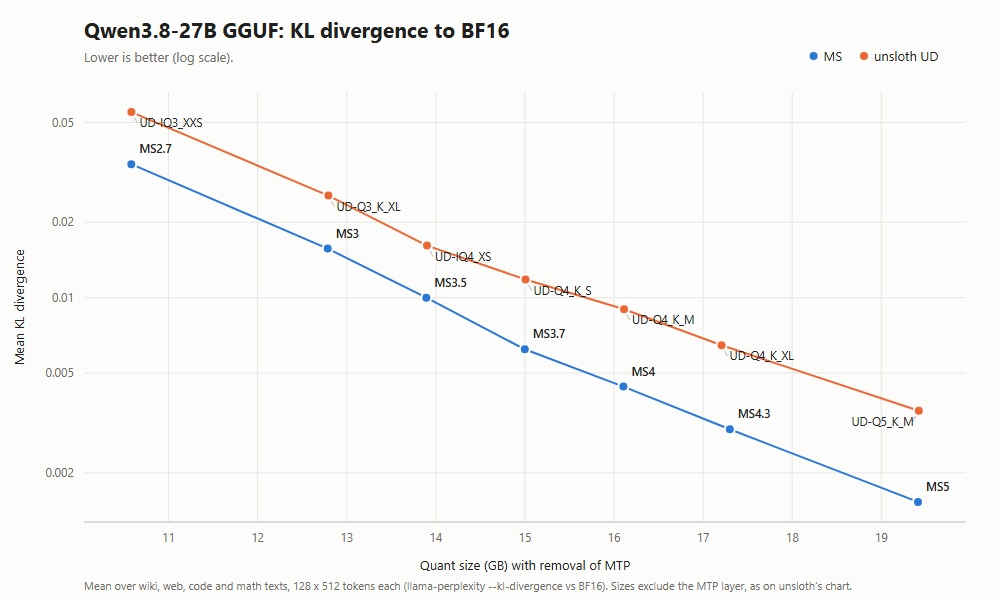
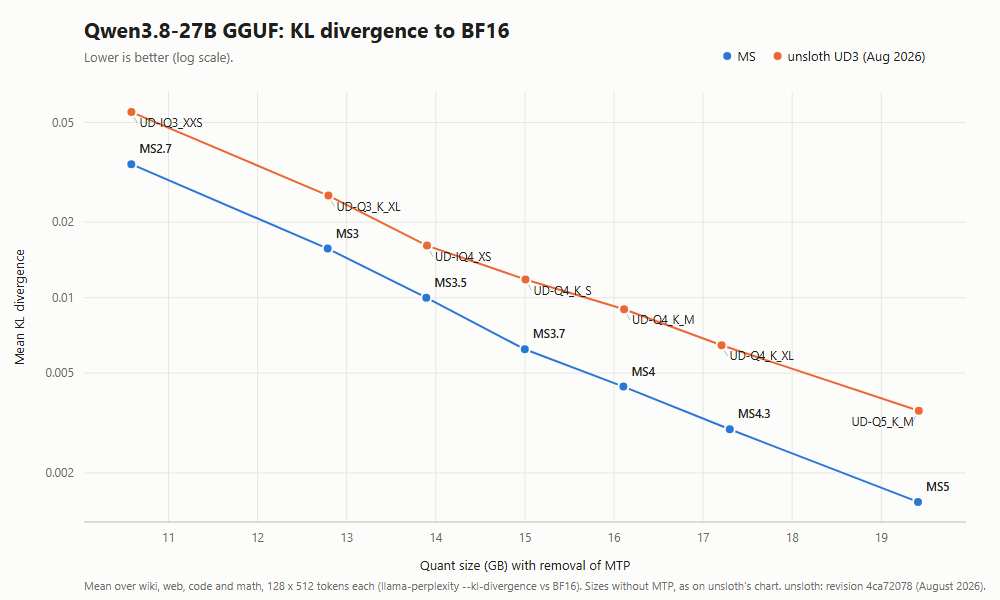
docs : README top-1 fact and chart, final MTP numbers

Changed region(s): [[0.248, 0.96, 0.992, 0.99], [0.713, 0.09, 0.93, 0.12]]

diff --git a/README.md b/README.md
@@ -3,13 +3,16 @@
 **MS (Mad Shift)** quants of [Qwen3.8-27B](https://huggingface.co/devvexus/Qwen3.8-27B-MS), and **ms-llama.cpp**, the llama.cpp fork that runs them.
 
 - **Accuracy:** 1.61-2.31x lower KL divergence than unsloth's UD3 file of the same size (1): 1.61-1.63x for MS2.7-MS3.5, 1.90-2.31x for MS3.7-MS5.
+- **Top-1:** the most likely next token matches the original BF16 model's 93.8-98.7% of the time, vs 91.8-97.9% for unsloth's UD3 file of the same size: 22-35% fewer mismatches (1).
 - **Speed:** generation about the same as unsloth (98-100%) (2). MTP doubles it: 2.0-2.2x faster than without MTP, MS4.3 31.8 tokens/s, MS2.7 42.7 tokens/s on an RTX Spark (3).
 - **Memory:** every file no larger than its unsloth file, except MS4.3 (+0.09 GB) (1). MTP adds ~0.9 GiB; unsloth's MTP file adds ~1.4 GiB on the same file (~1.7 GiB with their own files) (3).
 - **MTP:** our own MS-coded MTP file, 0.30 GB, one for every size (it borrows the loaded file's token table and output head); unsloth's is 1.37 GB. It drafts as well as unsloth's 4.5x larger MTP file and runs a little faster: on the same MS4.3 file 62.9% vs 62.5% of drafts accepted, 31.8 vs 29.7 tokens/s (3).
 
-<sub>(1) KL divergence from the original BF16 model, mean over four English texts. UD3 = Unsloth Dynamic 3, unsloth's files at revision `4ca72078` (August 2026); their sizes without their 351 MB MTP block. (2) Chat benchmark without MTP, MS and unsloth files both on ms-llama.cpp. (3) RTX Spark (GB10), 20 chat prompts x 256 tokens, greedy; unsloth's files with their own MTP file, also on ms-llama.cpp; GPU memory from nvidia-smi.</sub>
+<sub>(1) KL divergence from the original BF16 model, mean over four English texts; top-1 = how often the quantized model's most likely next token is the BF16 model's. UD3 = Unsloth Dynamic 3, unsloth's files at revision `4ca72078` (August 2026); their sizes without their 351 MB MTP block. (2) Chat benchmark without MTP, MS and unsloth files both on ms-llama.cpp. (3) RTX Spark (GB10), 20 chat prompts x 256 tokens, greedy; unsloth's files with their own MTP file, also on ms-llama.cpp; GPU memory from nvidia-smi.</sub>
 
 ![KL divergence vs size](docs/images/qwen3.8-27b_kld.png)
+
+![Top-1 agreement vs size](docs/images/qwen3.8-27b_top1.png)
 
 ![MTP: one MS file for every size vs unsloth's](docs/images/qwen3.8-27b_mtp.png)
 
@@ -109,9 +112,9 @@ RTX Spark (GB10), 20 chat prompts x 256 tokens, greedy, both on ms-llama.cpp; un
 | **MS4.3 + ours** | **31.8** | 2.16x | 62.9% | +0.91 GiB |
 | UD-Q4_K_XL + unsloth's | 32.4 | 2.19x | 63.8% | +1.69 GiB |
 | **MS2.7 + ours** | **42.7** | 2.00x | 65.9% | +0.87 GiB |
-| UD-IQ3_XXS + unsloth's | 39.9 | 1.83x | 62.0% | +1.69 GiB |
+| UD-IQ3_XXS + unsloth's | 38.7 | 1.77x | 62.0% | +1.71 GiB |
 
-With MTP on, MS4.3 runs at 98% and MS2.7 at 107% of unsloth's speed. Extra GPU memory is nvidia-smi with MTP on minus off
+With MTP on, MS4.3 runs at 98% and MS2.7 at 110% of unsloth's speed. Extra GPU memory is nvidia-smi with MTP on minus off
 (GiB = 1024 MiB); unsloth's MTP file loaded with MS4.3 instead adds ~1.4 GiB.
 
 ## Speed
